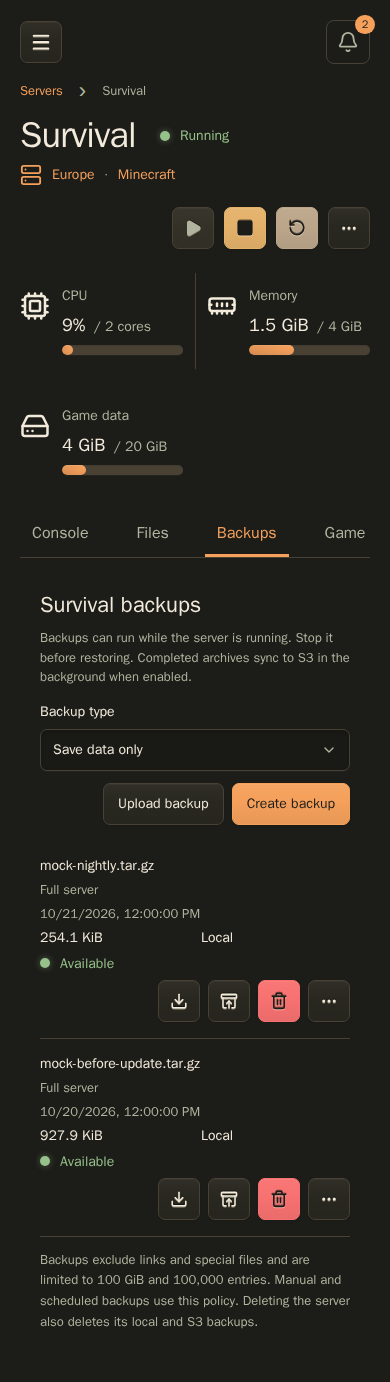
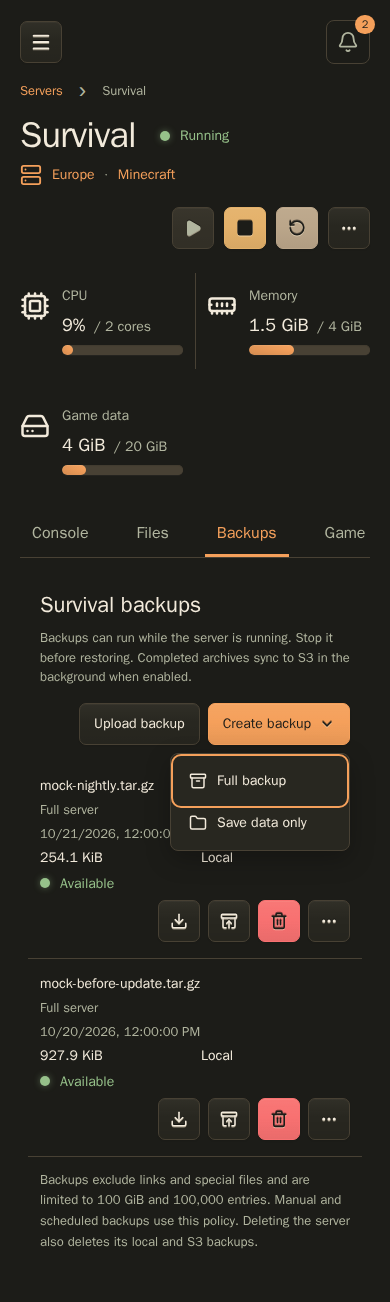
Move backup creation types into the action menu

diff --git a/web/src/components/servers/ServerBackups.tsx b/web/src/components/servers/ServerBackups.tsx
@@ -16,7 +16,7 @@ import {
   type Backup,
   BackupMode,
 } from "../../api/backups";
-import { BackupModeField } from "./BackupModeField";
+import { ActionMenu, type ActionMenuItem } from "../forms/ActionMenu";
 import {
   serverAction,
   serverStatus,
@@ -52,9 +52,6 @@ export function ServerBackups({ server }: { server: Server }) {
   const { t } = useTranslation();
   const confirmation = useConfirmation();
   const [entries, setEntries] = useState<Backup[]>([]);
-  const [backupMode, setBackupMode] = useState<BackupMode>(BackupMode.Full);
-  const invalidBackupMode =
-    backupMode === BackupMode.Savedata && !server.savedata_available;
   const [runtimeError, setRuntimeError] = useState<string | null>(null);
   const canDelete = canPerformServer(server, "deleteBackups");
   const canCreate = canPerformServer(server, "createBackups");
@@ -193,14 +190,25 @@ export function ServerBackups({ server }: { server: Server }) {
       if (mounted.current) setBusy(false);
     }
   }
-  async function submit(action: "backup" | "restore", name?: string) {
+  async function submit(
+    action: "backup" | "restore",
+    {
+      name,
+      backupMode = BackupMode.Full,
+    }: { name?: string; backupMode?: BackupMode } = {},
+  ) {
     if (
       pending.current ||
       !(action === ServerAction.Backup ? canCreateNow : canRestoreNow) ||
       !(action === "backup" ? canCreate : canRestore)
     )
       return;
-    if (action === "backup" && invalidBackupMode) return;
+    if (
+      action === "backup" &&
+      backupMode === BackupMode.Savedata &&
+      !server.savedata_available
+    )
+      return;
     if (action === "restore" && running && !canOperate) return;
     pending.current = true;
     setBusy(true);
@@ -303,7 +311,7 @@ export function ServerBackups({ server }: { server: Server }) {
             error={restoreError}
             onClose={() => setRestore(null)}
             onConfirm={() => {
-              void submit("restore", restore.name);
+              void submit("restore", { name: restore.name });
             }}
           >
             <p className="field-help backup-restore-name">
@@ -353,25 +361,38 @@ export function ServerBackups({ server }: { server: Server }) {
         )}
         {canCreate && (
           <ListToolbar className="backup-toolbar">
-            <BackupModeField
-              value={backupMode}
-              onChange={setBackupMode}
-              available={server.savedata_available === true}
-              disabled={busy || status?.busy === true}
-            />
             <ActionGroup>
               <Button disabled={!canChange} onClick={() => setImportOpen(true)}>
                 {t("backupImports.upload")}
               </Button>
-              <Button
+              <ActionMenu
+                label={t("serverBackups.createBackup")}
+                iconOnly={false}
                 variant="primary"
-                disabled={!canCreateNow || invalidBackupMode}
-                onClick={() => {
-                  void submit("backup");
-                }}
-              >
-                {t("serverBackups.createBackup")}
-              </Button>
+                disabled={!canCreateNow}
+                items={[
+                  {
+                    label: t("serverBackups.fullBackup"),
+                    icon: "backups",
+                    onSelect: () => {
+                      void submit("backup", { backupMode: BackupMode.Full });
+                    },
+                  },
+                  ...(server.savedata_available
+                    ? [
+                        {
+                          label: t("backupModes.savedata"),
+                          icon: "folder",
+                          onSelect: () => {
+                            void submit("backup", {
+                              backupMode: BackupMode.Savedata,
+                            });
+                          },
+                        } satisfies ActionMenuItem,
+                      ]
+                    : []),
+                ]}
+              />
             </ActionGroup>
           </ListToolbar>
         )}

diff --git a/e2e/backup-modes.spec.ts b/e2e/backup-modes.spec.ts
@@ -14,12 +14,24 @@ test("manual backups send the selected type and save-data restore describes its 
     .all()) {
     await expect(restore).toBeEnabled();
   }
-  const type = page.getByRole("combobox", { name: "Backup type", exact: true });
-  await type.click();
-  await page
-    .getByRole("option", { name: "Save data only", exact: true })
-    .click();
+  await expect(
+    page.getByRole("combobox", { name: "Backup type", exact: true }),
+  ).toHaveCount(0);
+  const create = page.getByRole("button", {
+    name: "Create backup",
+    exact: true,
+  });
+  await create.focus();
+  await page.keyboard.press("Enter");
+  await expect(
+    page.getByRole("menuitem", { name: "Full backup", exact: true }),
+  ).toBeFocused();
+  await page.keyboard.press("ArrowDown");
+  await expect(
+    page.getByRole("menuitem", { name: "Save data only", exact: true }),
+  ).toBeFocused();
   await screenshot(page, "backup-savedata.png");
+  await page.keyboard.press("Escape");
   await page.setViewportSize({ width: 390, height: 844 });
   const backups = page.getByRole("table", {
     name: "Server backups",
@@ -30,6 +42,11 @@ test("manual backups send the selected type and save-data restore describes its 
     .filter({ hasText: "mock-nightly" });
   for (const width of [320, 390, 600, 768]) {
     await page.setViewportSize({ width, height: 844 });
+    await create.click();
+    await expect(
+      page.getByRole("menu", { name: "Create backup", exact: true }),
+    ).toBeInViewport({ ratio: 1 });
+    await page.keyboard.press("Escape");
     const name = firstBackup.getByText("mock-nightly.tar.gz", { exact: true });
     await name.scrollIntoViewIfNeeded();
     await expect(name).toBeInViewport({ ratio: 1 });
@@ -38,7 +55,9 @@ test("manual backups send the selected type and save-data restore describes its 
     await expect(firstBackup.getByRole("link")).toBeInViewport({ ratio: 1 });
   }
   await page.setViewportSize({ width: 390, height: 844 });
+  await create.click();
   await screenshot(page, "backup-savedata-mobile.png");
+  await page.keyboard.press("Escape");
   const actions = firstBackup.getByRole("button", {
     name: /^Backup actions for /,
   });
@@ -54,6 +73,9 @@ test("manual backups send the selected type and save-data restore describes its 
   );
   await page
     .getByRole("button", { name: "Create backup", exact: true })
+    .click();
+  await page
+    .getByRole("menuitem", { name: "Save data only", exact: true })
     .click();
   expect((await request).postDataJSON()).toMatchObject({
     action: "backup",
@@ -161,7 +183,7 @@ test("backup schedules retain their explicit type", async ({ page }) => {
   await expect(stopOption).toBeDisabled();
 });
 
-test("save-data mode is unavailable when the applied Ember has no paths", async ({
+test("backup menu only offers supported types and creates a full backup", async ({
   page,
 }) => {
   await login(page);
@@ -175,11 +197,23 @@ test("save-data mode is unavailable when the applied Ember has no paths", async 
   });
   await openServerTab(page, "backups", "Backups");
   await page
-    .getByRole("combobox", { name: "Backup type", exact: true })
+    .getByRole("button", { name: "Create backup", exact: true })
     .click();
   await expect(
-    page.getByRole("option", { name: "Save data only", exact: true }),
-  ).toBeDisabled();
+    page.getByRole("menuitem", { name: "Save data only", exact: true }),
+  ).toHaveCount(0);
+  const request = page.waitForRequest(
+    (request) =>
+      request.method() === "POST" &&
+      request.url().endsWith("/servers/survival/actions"),
+  );
+  await page
+    .getByRole("menuitem", { name: "Full backup", exact: true })
+    .click();
+  expect((await request).postDataJSON()).toMatchObject({
+    action: "backup",
+    backup_mode: "full",
+  });
 });
 
 test("full and save-data retention settings persist independently", async ({

diff --git a/web/src/components/forms/ActionMenu.tsx b/web/src/components/forms/ActionMenu.tsx
@@ -1,4 +1,5 @@
 import { useId, useRef, type ComponentProps } from "react";
+import { ChevronDown } from "lucide-react";
 import { Button } from "./Button";
 import { NavigationIcon } from "../navigation/NavigationIcon";
 import "./action-menu.css";
@@ -16,9 +17,15 @@ export interface ActionMenuItem {
 export function ActionMenu({
   label,
   items,
+  iconOnly = true,
+  variant = "default",
+  disabled = false,
 }: {
   label: string;
   items: ActionMenuItem[];
+  iconOnly?: boolean;
+  variant?: ComponentProps<typeof Button>["variant"];
+  disabled?: boolean;
 }) {
   const id = useId();
   const menu = useRef<HTMLDivElement>(null);
@@ -26,13 +33,23 @@ export function ActionMenu({
     <>
       <Button
         type="button"
-        iconOnly
+        iconOnly={iconOnly}
+        variant={variant}
+        disabled={disabled}
+        className={iconOnly ? undefined : "action-menu-trigger"}
         title={label}
         aria-label={label}
         aria-haspopup="menu"
         popoverTarget={id}
       >
-        <NavigationIcon name="more" />
+        {iconOnly ? (
+          <NavigationIcon name="more" />
+        ) : (
+          <>
+            {label}
+            <ChevronDown size={16} aria-hidden="true" />
+          </>
+        )}
       </Button>
       <div
         id={id}
@@ -93,7 +110,9 @@ export function ActionMenu({
             role="menuitem"
             tabIndex={-1}
             className={item.tone ? `action-menu-${item.tone}` : undefined}
-            disabled={item.disabled === true || item.loading === true}
+            disabled={
+              disabled || item.disabled === true || item.loading === true
+            }
             aria-busy={item.loading}
             onClick={() => {
               menu.current?.hidePopover();

diff --git a/e2e/operation-feedback.spec.ts b/e2e/operation-feedback.spec.ts
@@ -76,6 +76,9 @@ for (const action of [ServerAction.Backup, ServerAction.Restore]) {
       await page
         .getByRole("button", { name: "Create backup", exact: true })
         .click();
+      await page
+        .getByRole("menuitem", { name: "Full backup", exact: true })
+        .click();
     } else {
       await page
         .getByRole("row")

diff --git a/web/src/components/forms/action-menu.css b/web/src/components/forms/action-menu.css
@@ -1,3 +1,7 @@
+.action-menu-trigger {
+  gap: 8px;
+}
+
 .action-menu {
   inset: auto;
   margin: 8px 0 0;
